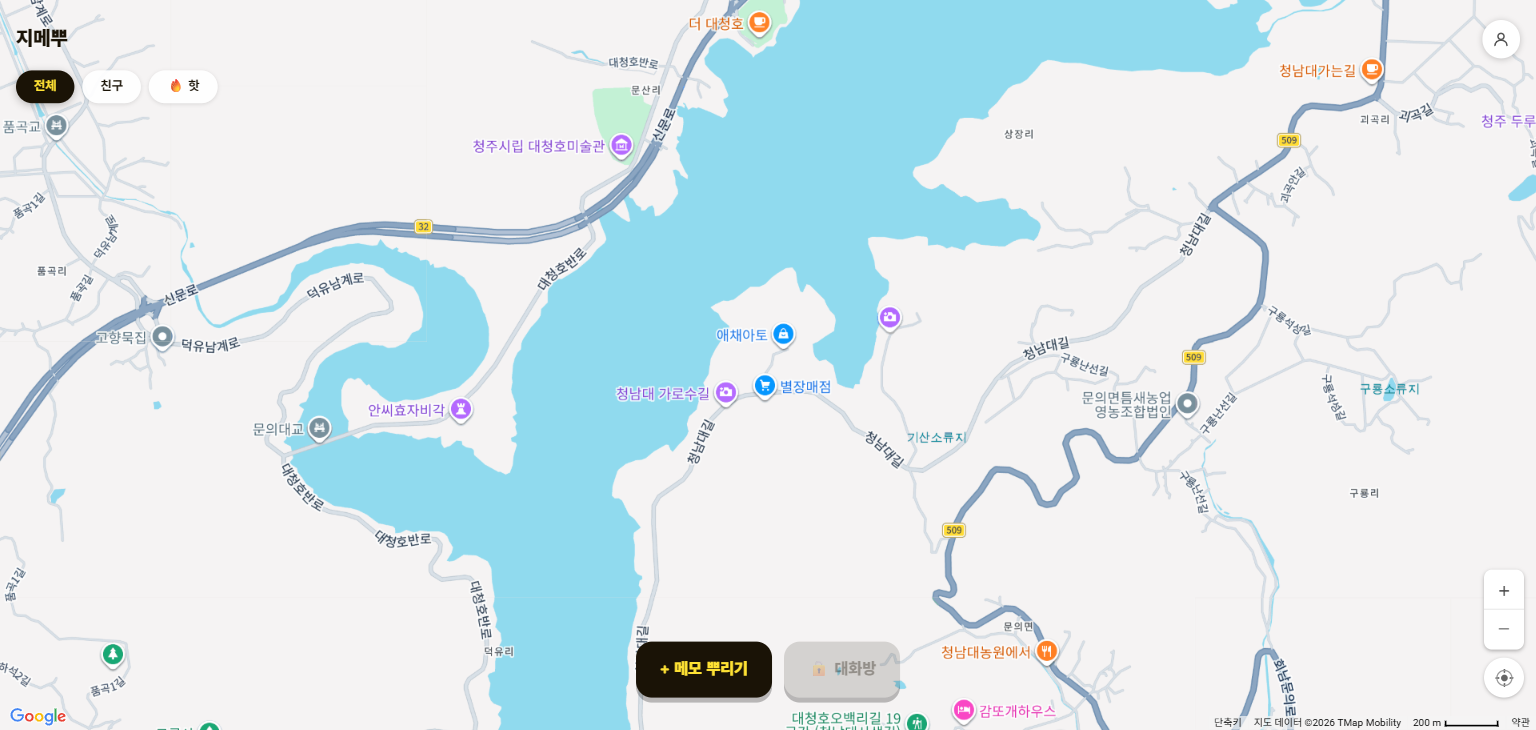
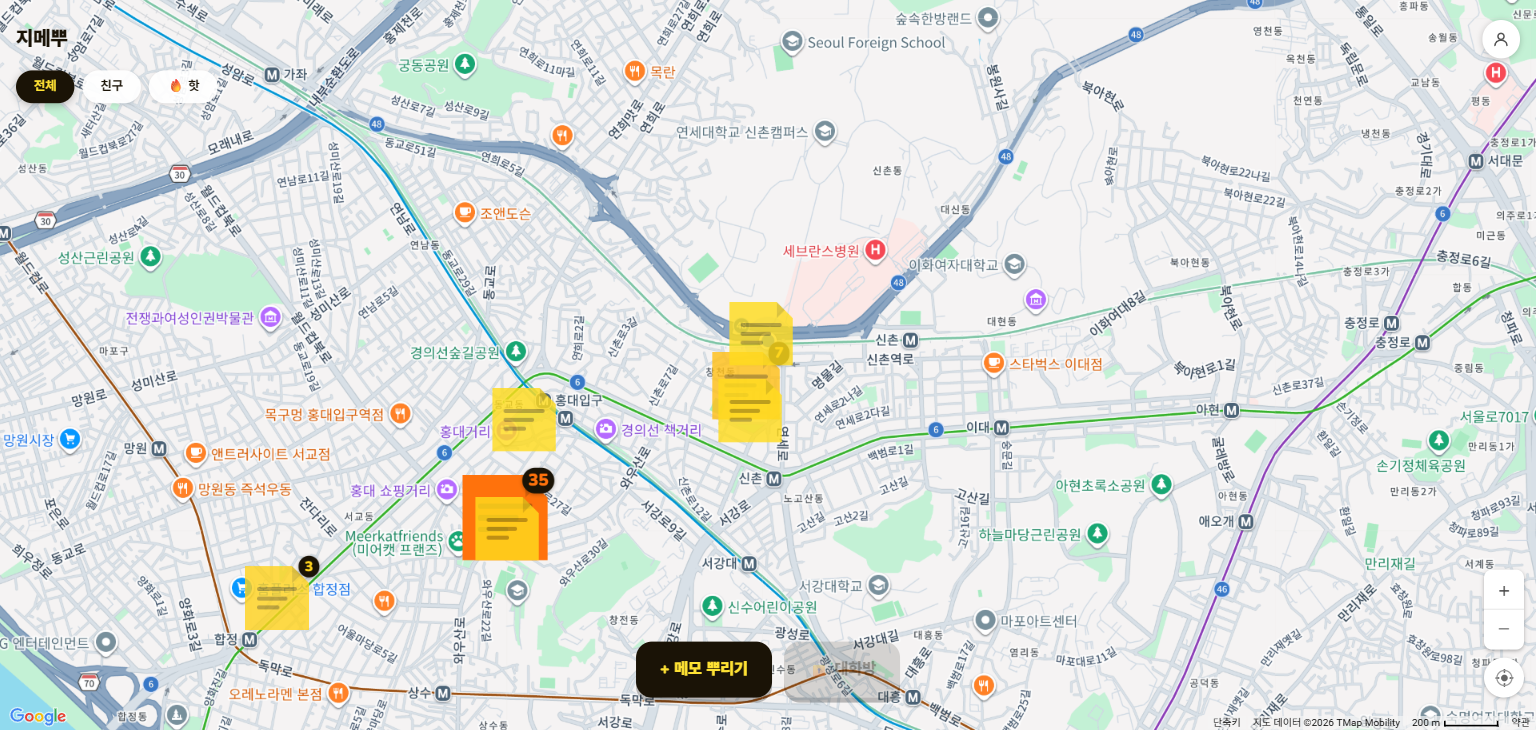
Update gmepu page: real screenshots and story from team chat

diff --git a/src/app/works/[id]/page.tsx b/src/app/works/[id]/page.tsx
@@ -33,19 +33,19 @@ const projects: Record<string, {
   gmepu: {
     name: "지메뿌",
     slug: "gmepu",
-    year: "2025",
-    tech: ["Next.js", "Google Maps", "Framer Motion", "Supabase"],
+    year: "2026",
+    tech: ["Next.js", "Google Maps API", "Supabase", "Google Auth"],
     href: "https://gmepu.vercel.app",
     color: "#f5c800",
     desc: "지도에 메모 뿌리기",
     story: [
-      "길 걷다가 '이 골목 야경 진짜 예쁜데 아무도 모르겠지'라는 생각이 들었다. 그걸 지도에 붙여놓으면 어떨까.",
-      "지메뿌는 지도 + 메모 + 뿌리기의 합성어다. 현재 위치에 짧은 메모를 남기면 그 위치에 핀으로 꽂힌다. 지나가는 사람들이 내 메모를 볼 수 있고, 나도 모르는 사람의 메모를 발견할 수 있다.",
-      "SNS처럼 팔로우 없이, 그냥 공간으로 연결되는 느낌을 만들고 싶었다.",
+      "서비스디자인 수업 첫 팀 회의 다음날 바로 만들었다. 팀원이 아이디어 회의에서 '스팟마다 기록 남기기'를 던졌고, 나는 그걸 그날 밤 구현해서 오후 1시에 단톡방에 링크를 올렸다. 팀원 반응은 '하루만에 이게 나와요?'였다.",
+      "지메뿌는 지도(지) + 메모(메) + 뿌리기(뿌)의 합성어. Google Auth로 로그인하면 현재 위치에 짧은 메모를 뿌릴 수 있다. 뿌려진 메모는 지도 위에 포스트잇 핀으로 쌓이고, 전체/친구/🔥핫 필터로 탐색할 수 있다. 메모를 많이 쓸수록 그 장소에 대화방을 열 권한이 생기는 구조다.",
+      "팀 과제 최종 아이템으로 채택됐다. 컨셉은 '한국판 지도 기반 레딧'. 레딧이 AI 학습 소스 1위인 것처럼, 지메뿌도 위치 기반 데이터 자산이 된다는 논리다. 엑싯 전략은 네이버 지도 인수. 가장 많이 공격받을 질문인 '네이버 지도와 차이점'에 대한 선제 대응이기도 하다.",
     ],
     screens: [
-      { src: "/shot-gmepu-1.png", caption: "랜딩 페이지" },
-      { src: "/shot-gmepu-map.png", caption: "지도 — 메모들이 핀으로 꽂혀있다" },
+      { src: "/shot-gmepu-login.png", caption: "메모 뿌리기 — Google 로그인 필요, 실제 메모 핀 분포" },
+      { src: "/shot-gmepu-map.png", caption: "홍대/신촌 일대 — 실제 누적된 메모 35개 클러스터" },
     ],
   },
   inbody: {
